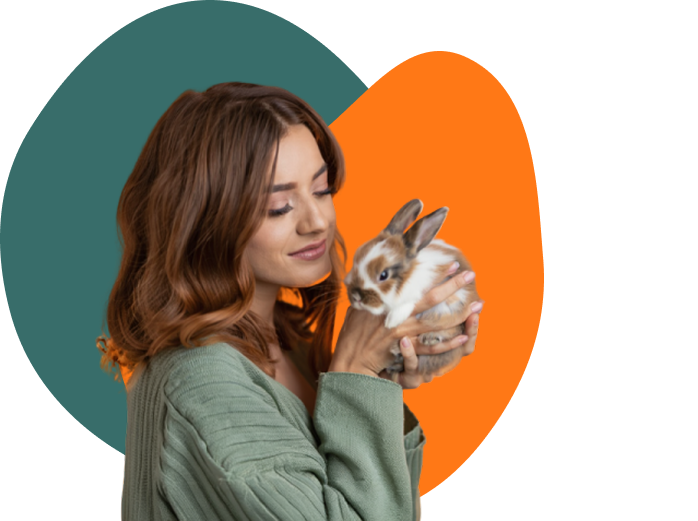
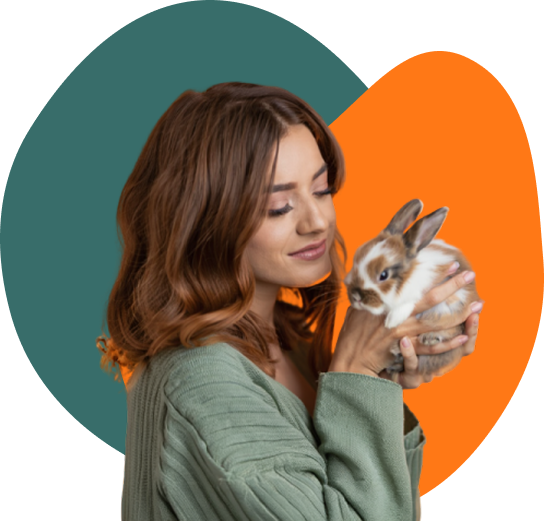
fix: fix FAQ , trim Image3 to fit in the landing page , fix css of IconWithText component

diff --git a/src/pages/Landing.tsx b/src/pages/Landing.tsx
@@ -73,6 +73,13 @@ function Landing() {
 					</div>
 				</div>
 			</div>
+			{!isDesktop && (
+				<div className="flex gap-2 sm:gap-4 items-center justify-center w-full mt-20 mb-20">
+					<IconWithText Icon={UserRoundCheckIcon} text="انعطاف در ساعت کاری" />
+					<IconWithText Icon={IdCard} text="پرداخت امن" />
+					<IconWithText Icon={Headset} text="پشتیبانی 24 ساعته" />
+				</div>
+			)}
 
 			<div className="bg-secondary-200 w-full flex flex-col items-center gap-3 py-3">
 				<div className="flex w-9/10 lg:w-8/10 justify-between items-center">
@@ -124,9 +131,11 @@ function Landing() {
 					</div>
 				</Carousel>
 			</div>
-			<div className="w-full h-auto flex flex-col items-center">
-				<p className="text-5xl font-bold mt-35">خدمات محبوب پتیار</p>
-				<p className="text-xl mt-5">
+			<div className="w-full h-auto flex flex-col items-center px-7">
+				<p className="text-3xl sm:text-4xl md:text-5xl font-bold text-center mt-35">
+					خدمات محبوب پتیار
+				</p>
+				<p className="text-xl mt-5 text-center">
 					مجموعهای از سرویسهای کاربردی برای مراقبت بهتر از پتها
 				</p>
 
@@ -332,10 +341,10 @@ function Landing() {
 					</>
 				)}
 			</div>
-			<div className="flex flex-col w-3/4 lg:w-full h-auto px-7 mt-20 max-w-250 mb-30">
+			<div className="flex flex-col w-5/6 sm:w-3/4 lg:w-full h-auto sm:px-7 mt-20 max-w-250 mb-30">
 				<p className="text-xl font-bold">سوالات متداول</p>
 				<div className="w-full rounded-3xl h-auto mt-3 px-7 pt-7 bg-primary-300 grid grid-cols-1 grid-rows-1 lg:flex justify-between">
-					<div className="flex flex-col gap-3 items-center lg:items-start row-start-1 col-start-1 z-10">
+					<div className="flex flex-col h-auto min-h-100 gap-3 items-center lg:items-start row-start-1 col-start-1 z-10">
 						<FaqItem
 							index={0}
 							open={faq1Open}

diff --git a/src/components/Landing/IconWithText.tsx b/src/components/Landing/IconWithText.tsx
@@ -6,11 +6,13 @@ export default function IconWithText({
 	text: string;
 }) {
 	return (
-		<div className="w-full flex flex-col items-center justify-center gap-3">
-			<div className="size-20 bg-secondary-300 rounded-md flex items-center justify-center p-4">
+		<div className="w-30 sm:w-40 md:w-50 lg:w-full flex flex-col items-center justify-center gap-3">
+			<div className="size-15 md:size-20 bg-secondary-300 rounded-md flex items-center justify-center p-4">
 				<Icon size={"auto"} />
 			</div>
-			<div className="text-center h-10 text-xl font-bold">{text}</div>
+			<div className="text-center h-10 text-lg md:text-xl font-bold">
+				{text}
+			</div>
 		</div>
 	);
 }